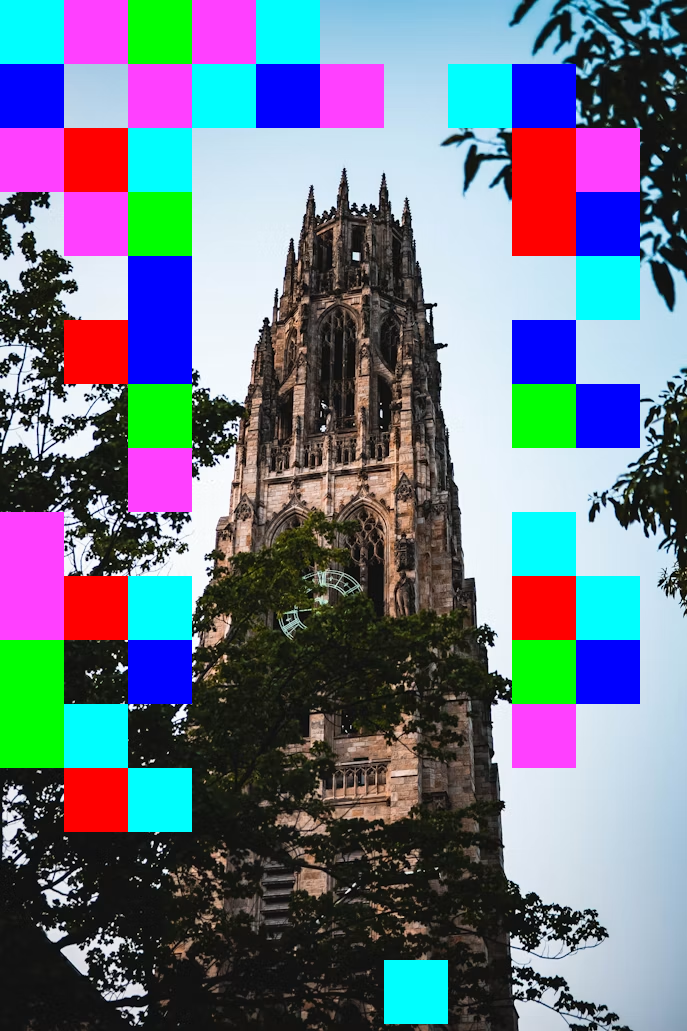
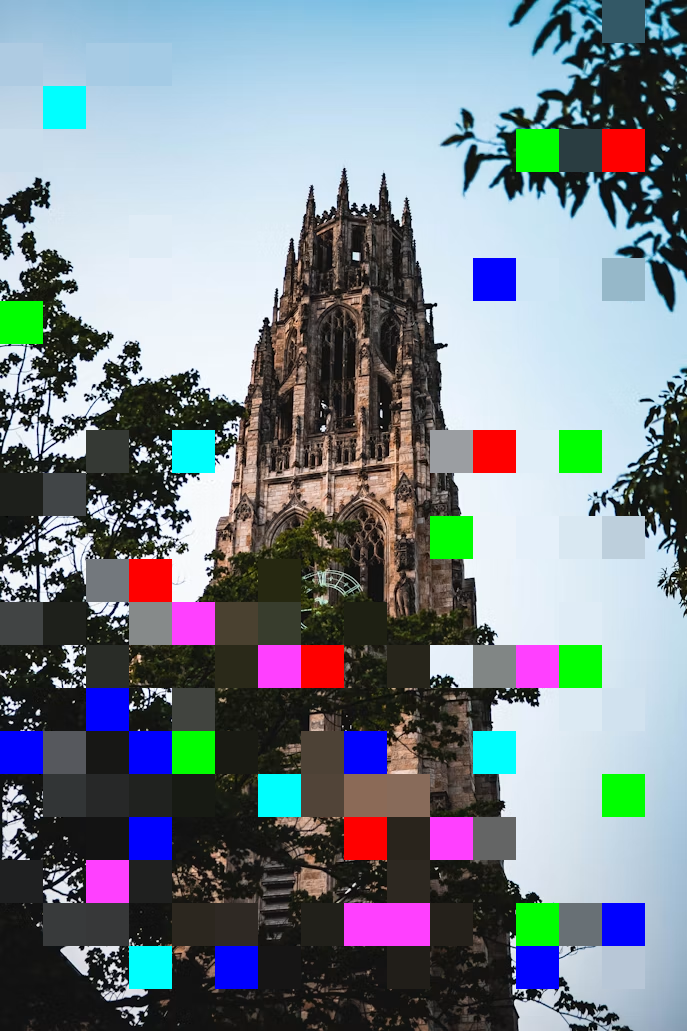
integrate Harkness artwork into homepage hero

diff --git a/styles.css b/styles.css
@@ -272,43 +272,80 @@ button {
 }
 
 /* --- HERO --- */
-.hero,
 .prize-hero,
 .events-hero {
   padding: 5rem 0 3rem;
 }
 
+.hero {
+  position: relative;
+  overflow: hidden;
+  isolation: isolate;
+}
+
+.hero .container { position: relative; }
+
 .hero__label { margin-bottom: 1.5rem; }
 
 .hero__layout {
-  display: grid;
-  grid-template-columns: minmax(0, 1fr);
-  gap: 2.5rem;
-  align-items: center;
+  position: relative;
+  min-height: clamp(31rem, 61vw, 40rem);
+  display: flex;
+  align-items: flex-start;
+  padding: clamp(5rem, 9vw, 7.5rem) 0 4rem;
+}
+
+.hero__layout::after {
+  content: '';
+  position: absolute;
+  inset: 0;
+  z-index: 1;
+  pointer-events: none;
+  background: linear-gradient(90deg, var(--bg) 0%, rgba(10, 10, 10, 0.92) 22%, rgba(10, 10, 10, 0.54) 50%, transparent 76%);
+}
+
+.hero__copy {
+  position: relative;
+  z-index: 2;
+  max-width: 45rem;
+  text-shadow: 0 2px 28px rgba(0, 0, 0, 0.9);
 }
 
 .hero__visual {
-  width: 100%;
-  max-width: 320px;
-  justify-self: center;
-  border: 1px solid var(--border);
-  background: var(--bg-elev);
+  position: absolute;
+  z-index: 0;
+  top: -4rem;
+  right: -4rem;
+  width: min(67vw, 47rem);
+  opacity: 0.62;
+  pointer-events: none;
+  -webkit-mask-image: radial-gradient(ellipse 82% 78% at 62% 34%, #000 30%, rgba(0, 0, 0, 0.9) 56%, transparent 100%);
+  mask-image: radial-gradient(ellipse 82% 78% at 62% 34%, #000 30%, rgba(0, 0, 0, 0.9) 56%, transparent 100%);
 }
 
 .hero__visual img {
   width: 100%;
   height: auto;
+  filter: saturate(0.9) contrast(1.04);
 }
 
-@media (min-width: 800px) {
+@media (max-width: 799px) {
   .hero__layout {
-    grid-template-columns: minmax(0, 1fr) minmax(230px, 280px);
-    gap: clamp(3rem, 8vw, 7rem);
+    min-height: 34rem;
+    padding: 4.5rem 0 3rem;
   }
 
   .hero__visual {
-    max-width: none;
-    justify-self: end;
+    top: 4.5rem;
+    right: -13rem;
+    width: 36rem;
+    opacity: 0.5;
+    -webkit-mask-image: radial-gradient(ellipse 78% 76% at 52% 34%, #000 25%, rgba(0, 0, 0, 0.86) 54%, transparent 100%);
+    mask-image: radial-gradient(ellipse 78% 76% at 52% 34%, #000 25%, rgba(0, 0, 0, 0.86) 54%, transparent 100%);
+  }
+
+  .hero__layout::after {
+    background: linear-gradient(180deg, rgba(10, 10, 10, 0.34) 0%, rgba(10, 10, 10, 0.08) 42%, var(--bg) 100%);
   }
 }
 
